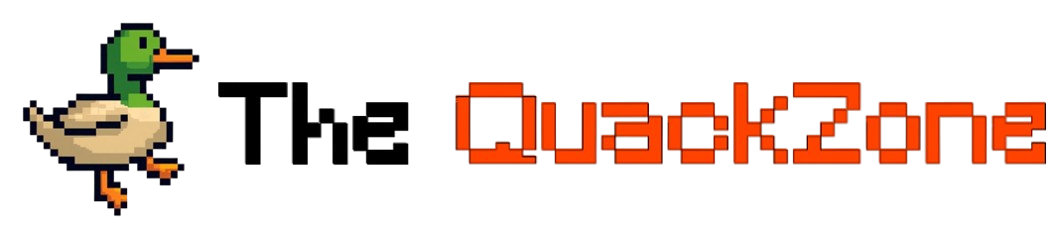
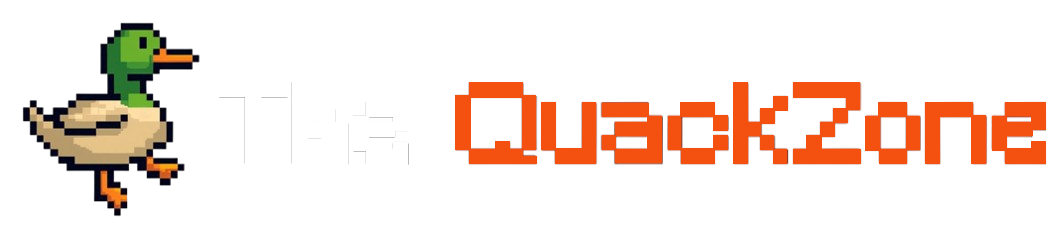
btns

Changed region(s): [[0.4367, 0.3263, 0.9981, 0.7119], [0.1871, 0.3263, 0.4055, 0.7119]]

diff --git a/styleIndex2.css b/styleIndex2.css
@@ -7,7 +7,7 @@
 }
 
 :root{
-    --accent-color: #050000;
+    --accent-color: #ff4500;
     --base-color: #ffffff;
     --text-color:#2E2B41;
     --input-color:#F3F0FF;
@@ -304,7 +304,143 @@ footer nav a:hover {
 /*END FOOTER*/
 
 
-/*RESPONSIVE*/
+/* ========================== */
+/*         MODO OSCURO         */
+/* ========================== */
+.dark-mode .logo {
+    color: white;
+    padding: 0;
+    display: flex;
+    justify-content: left;
+    align-items: center;
+}
+
+.dark-mode .header {
+    color: white;
+    padding: 1rem;
+    display: flex;
+    justify-content: space-between;
+}
+
+.dark-mode .logo {
+    color: white;
+    padding: 0;
+    display: flex;
+    justify-content: left;
+    align-items: center;
+}
+
+
+.navbar .links a {
+    text-decoration: none;
+    color: var(--base-color);
+    font-size: 1rem;
+}
+
+/* Body */
+body.dark-mode {
+    background-color: #121212;
+    color: #fff;
+    transition: background-color 0.3s, color 0.3s;
+}
+
+/* Encabezado en modo oscuro */
+.dark-mode header {
+    color: white;
+    padding: 1rem;
+    display: flex;
+    justify-content: space-between;
+}
+
+/* Texto en modo oscuro */
+.dark-mode h2, .dark-mode h3, .dark-mode .descripcion {
+    color: #ffffff;
+}
+
+/* Fondo y texto en contenedores */
+.dark-mode .descripcion {
+    background: rgb(98, 94, 94);
+}
+
+
+/* Estilo del icono del toggle (de la luna al sol) */
+#icon.fa-sun {
+    color: #ffffff; /* Icono de sol en el modo oscuro */
+}
+
+/* Estilo del icono de la luna */
+#icon.fa-moon {
+    color: white; /* Icono de luna */
+}
+
+/* ========================== */
+/*        SWITCH PARA MODO OSCURO (Toggle)  */
+/* ========================== */
+#toggle {
+    display: none; /* Checkbox oculto */
+}
+
+#label_toggle {
+    display: inline-flex;
+    align-items: center;
+    justify-content: center;
+    cursor: pointer;
+    font-size: 1rem;
+    transition: transform 0.3s ease;
+}
+
+/* Transformación del ícono al activar el toggle */
+#toggle:checked + #label_toggle #icon {
+    content: "\f185"; /* Cambio de ícono (sol) */
+    transform: rotate(360deg);
+}
+
+/* Cuando el toggle está marcado, el icono cambia */
+#toggle:checked + #label_toggle #icon {
+    content: "\f185"; /* Ícono de sol */
+}
+
+/* ========================== */
+/*        BODY Y HEADER        */
+/* ========================== */
+.dark {
+    background-color: black;
+    color: #ffffff;
+    transition: all 1.5s ease;
+}
+
+.dark-mode header {
+    background-color: #1a1a1a;
+}
+
+.dark-mode .links li a {
+    text-decoration: none;
+    padding: 8px 12px;
+    display: inline-block;
+    transition: background-color 0.3s ease, color 0.3s ease;
+    color: white;
+}
+
+.dark-mode .links li a:hover {
+    background-color: orangered;
+    border-radius: 5px;
+    color: white;
+}
+
+.dark-mode .action_btn:hover {
+    scale: 1.05;
+    color: orangered;
+}
+.dark-mode .dropdown_menu .action_btn{
+    padding: 0.7rem;
+    display: flex;
+    align-items: center;
+    justify-content: center;
+}
+
+/* ========================== */
+/*          RESPONSIVE        */
+/* ========================== */
 @media (max-width:992px ) {
     .navbar .links, .navbar .action_btn{
         display: none;
@@ -392,152 +528,4 @@ footer nav a:hover {
     content: "\f185";
     display: inline-block;
     color: #000000;
-}
-
-/* ========================== */
-/*         MODO OSCURO         */
-/* ========================== */
-.dark-mode .logo {
-    background-color: transparent;
-    color: white;
-    padding: 0;
-    display: flex;
-    justify-content: left;
-    align-items: center;
-}
-
-.dark-mode .header {
-    background-color: #204d21;
-    color: white;
-    padding: 1rem;
-    display: flex;
-    justify-content: space-between;
-}
-
-.dark-mode .logo {
-    background-color: transparent;
-    color: white;
-    padding: 0;
-    display: flex;
-    justify-content: left;
-    align-items: center;
-}
-
-.dark-mode .logo img {
-    width: 18rem;
-    margin: 0px 30px;
-}
-
-
-.navbar .links a {
-    text-decoration: none;
-    color: var(--base-color);
-    font-size: 1rem;
-}
-
-/* Body */
-body.dark-mode {
-    background-color: #121212;
-    color: #fff;
-    transition: background-color 0.3s, color 0.3s;
-}
-
-/* Encabezado en modo oscuro */
-.dark-mode header {
-    background-color: #204d21;
-    color: white;
-    padding: 1rem;
-    display: flex;
-    justify-content: space-between;
-}
-
-/* Texto en modo oscuro */
-.dark-mode h2, .dark-mode h3, .dark-mode .descripcion {
-    color: #ffffff;
-}
-
-/* Fondo y texto en contenedores */
-.dark-mode .descripcion {
-    background: rgb(98, 94, 94);
-}
-
-/* Botones de acción */
-.dark-mode .acciones {
-    color: black;
-    text-decoration: none;
-    cursor: pointer;
-}
-
-/* Estilo de los enlaces en el menú */
-.dark-mode .nav-list li a {
-    color: #000000;
-}
-
-/* Estilo del icono del toggle (de la luna al sol) */
-#icon.fa-sun {
-    color: #ffffff; /* Icono de sol en el modo oscuro */
-}
-
-/* Estilo del icono de la luna */
-#icon.fa-moon {
-    color: white; /* Icono de luna */
-}
-
-/* ========================== */
-/*        SWITCH PARA MODO OSCURO (Toggle)  */
-/* ========================== */
-#toggle {
-    display: none; /* Checkbox oculto */
-}
-
-#label_toggle {
-    display: inline-flex;
-    align-items: center;
-    justify-content: center;
-    cursor: pointer;
-    font-size: 1rem;
-    transition: transform 0.3s ease;
-}
-
-/* Transformación del ícono al activar el toggle */
-#toggle:checked + #label_toggle #icon {
-    content: "\f185"; /* Cambio de ícono (sol) */
-    transform: rotate(360deg);
-}
-
-/* Cuando el toggle está marcado, el icono cambia */
-#toggle:checked + #label_toggle #icon {
-    content: "\f185"; /* Ícono de sol */
-}
-
-/* ========================== */
-/*        BODY Y HEADER        */
-/* ========================== */
-.dark {
-    background-color: black;
-    color: #ffffff;
-    transition: all 1.5s ease;
-}
-
-.dark-mode header {
-    background-color: #244925;
-}
-
-.dark-mode .links li a {
-    text-decoration: none;
-    padding: 8px 12px;
-    display: inline-block;
-    transition: background-color 0.3s ease, color 0.3s ease;
-    color: white;
-}
-
-.dark-mode .links li a:hover {
-    background-color: black;
-    border-radius: 5px;
-    color: white;
-}
-
-.dark-mode .action_btn:hover {
-    scale: 1.05;
-    color: black;
 }

diff --git a/styleLogin.css b/styleLogin.css
@@ -1,6 +1,6 @@
 @import url('https://fonts.googleapis.com/css2?family=Poppins:ital,wght@0,100;0,200;0,300;0,400;0,500;0,600;0,700;0,800;0,900;1,100;1,200;1,300;1,400;1,500;1,600;1,700;1,800;1,900&display=swap');
 :root{
-    --accent-color: #dc6314;
+    --accent-color: #ff4500;
     --base-color:white;
     --text-color:#2E2B41;
     --input-color:#F3F0FF;
@@ -33,6 +33,7 @@ body{
     flex-direction: column;
     align-items: center;
     justify-content: center;
+    position: relative;
 }
 h1{
     font-size: 3rem;
@@ -53,6 +54,33 @@ form > div{
     display: flex;
     justify-content: center;
 }
+
+.top-bar {
+    width: 100%;
+    display: flex;
+    justify-content: flex-start;
+    padding: 20px;
+    position: absolute;
+    top: 0;
+    left: 0;
+}
+
+.back {
+    margin-top: 10px;
+    border: none;
+    border-radius: 1000px;
+    padding: .30em 1em;
+    background-color: var(--accent-color);
+    color: var(--base-color);
+    font: inherit;
+    font-weight: 600;
+    text-transform: uppercase;
+    cursor: pointer;
+    transition: 150ms ease;
+    margin-left: 20px;
+}
+
+
 form label{
     flex-shrink:0;
     height: 50px;

diff --git a/Registro_user.html b/Registro_user.html
@@ -9,6 +9,11 @@
 </head>
 <body>
     <div class="wrapper">
+        <div class="top-bar">
+            <a href="index.html">
+                <button class="back">Regresar</button>
+            </a>
+        </div>
         <h1>Registro</h1>
         <p id="error-message"></p>
         <form id="form">

diff --git a/Loginv1.html b/Loginv1.html
@@ -8,7 +8,13 @@
 
 </head>
 <body>
+
 <div class="wrapper">
+    <div class="top-bar">
+        <a href="index.html">
+            <button class="back">Regresar</button>
+        </a>
+    </div>
     <h1>Iniciar Sesión</h1>
     <p id="error-message"></p>
     <form id="form">
